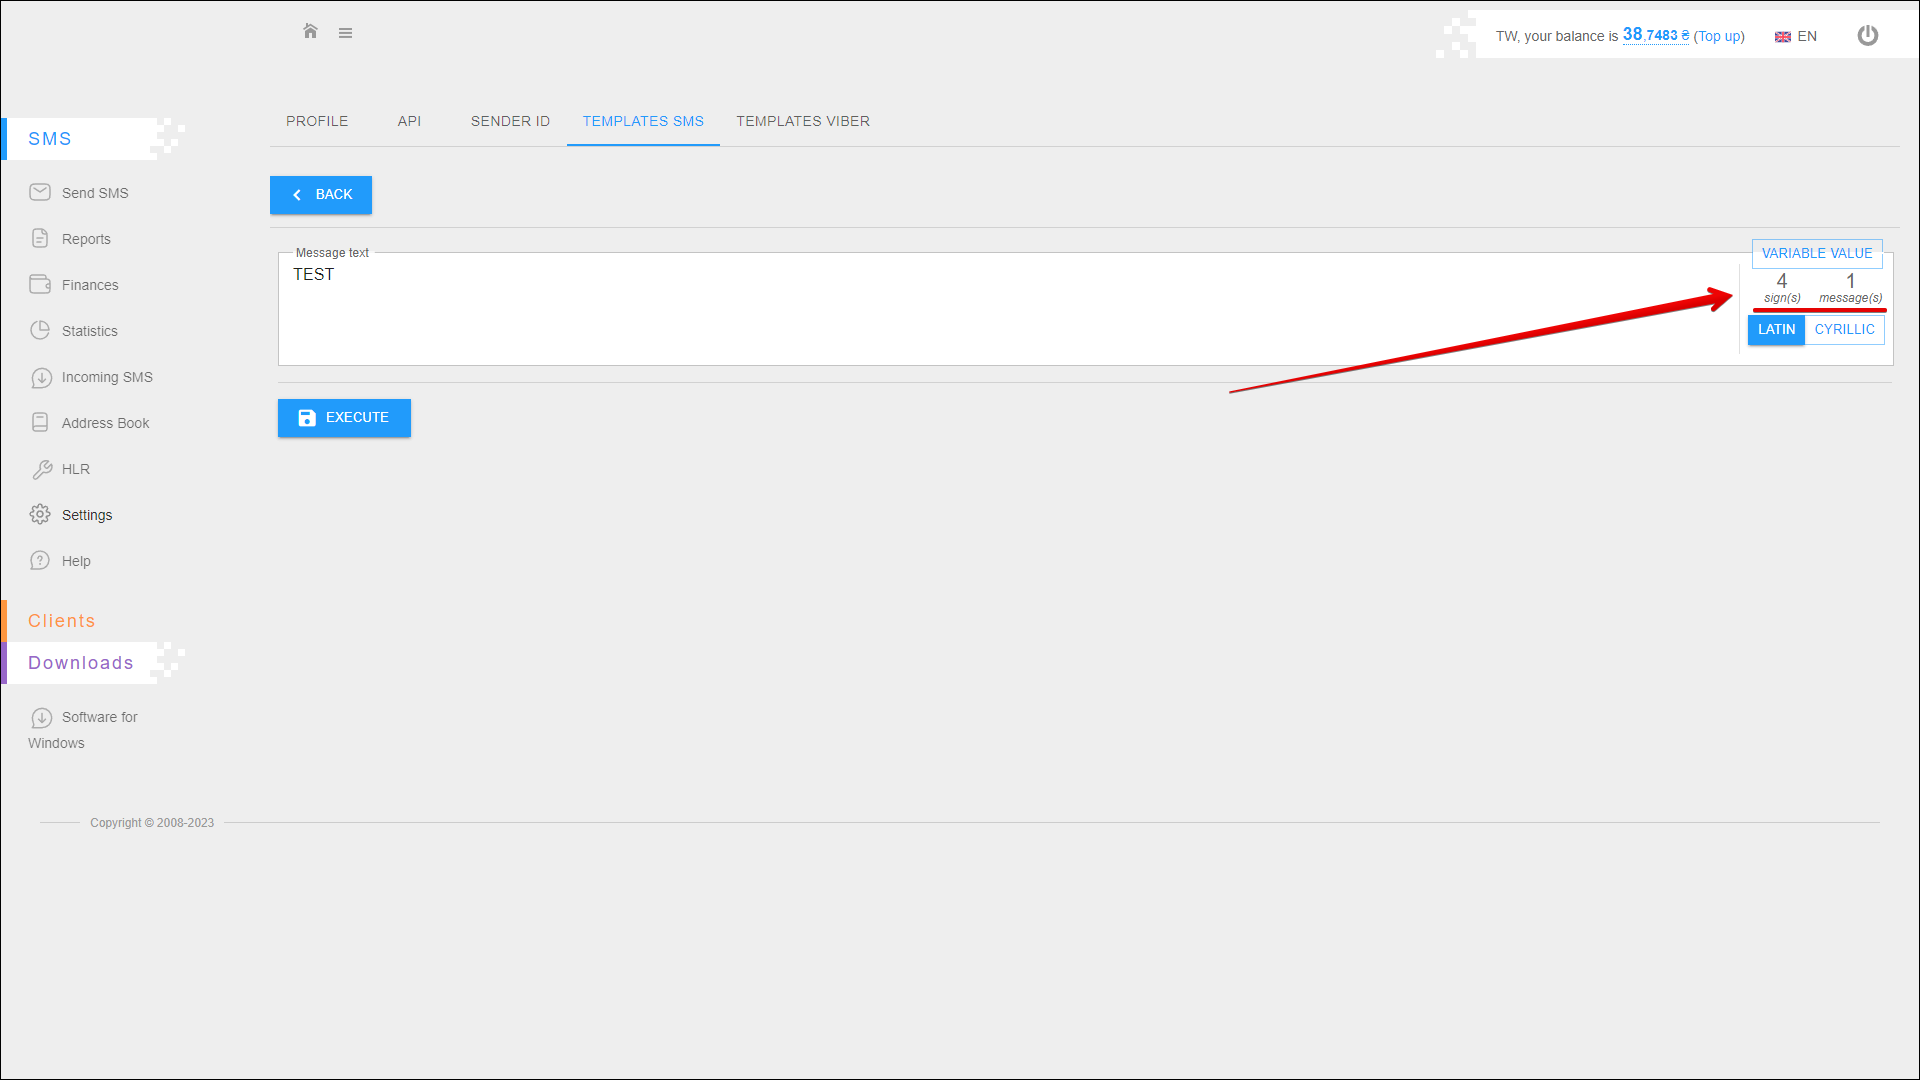
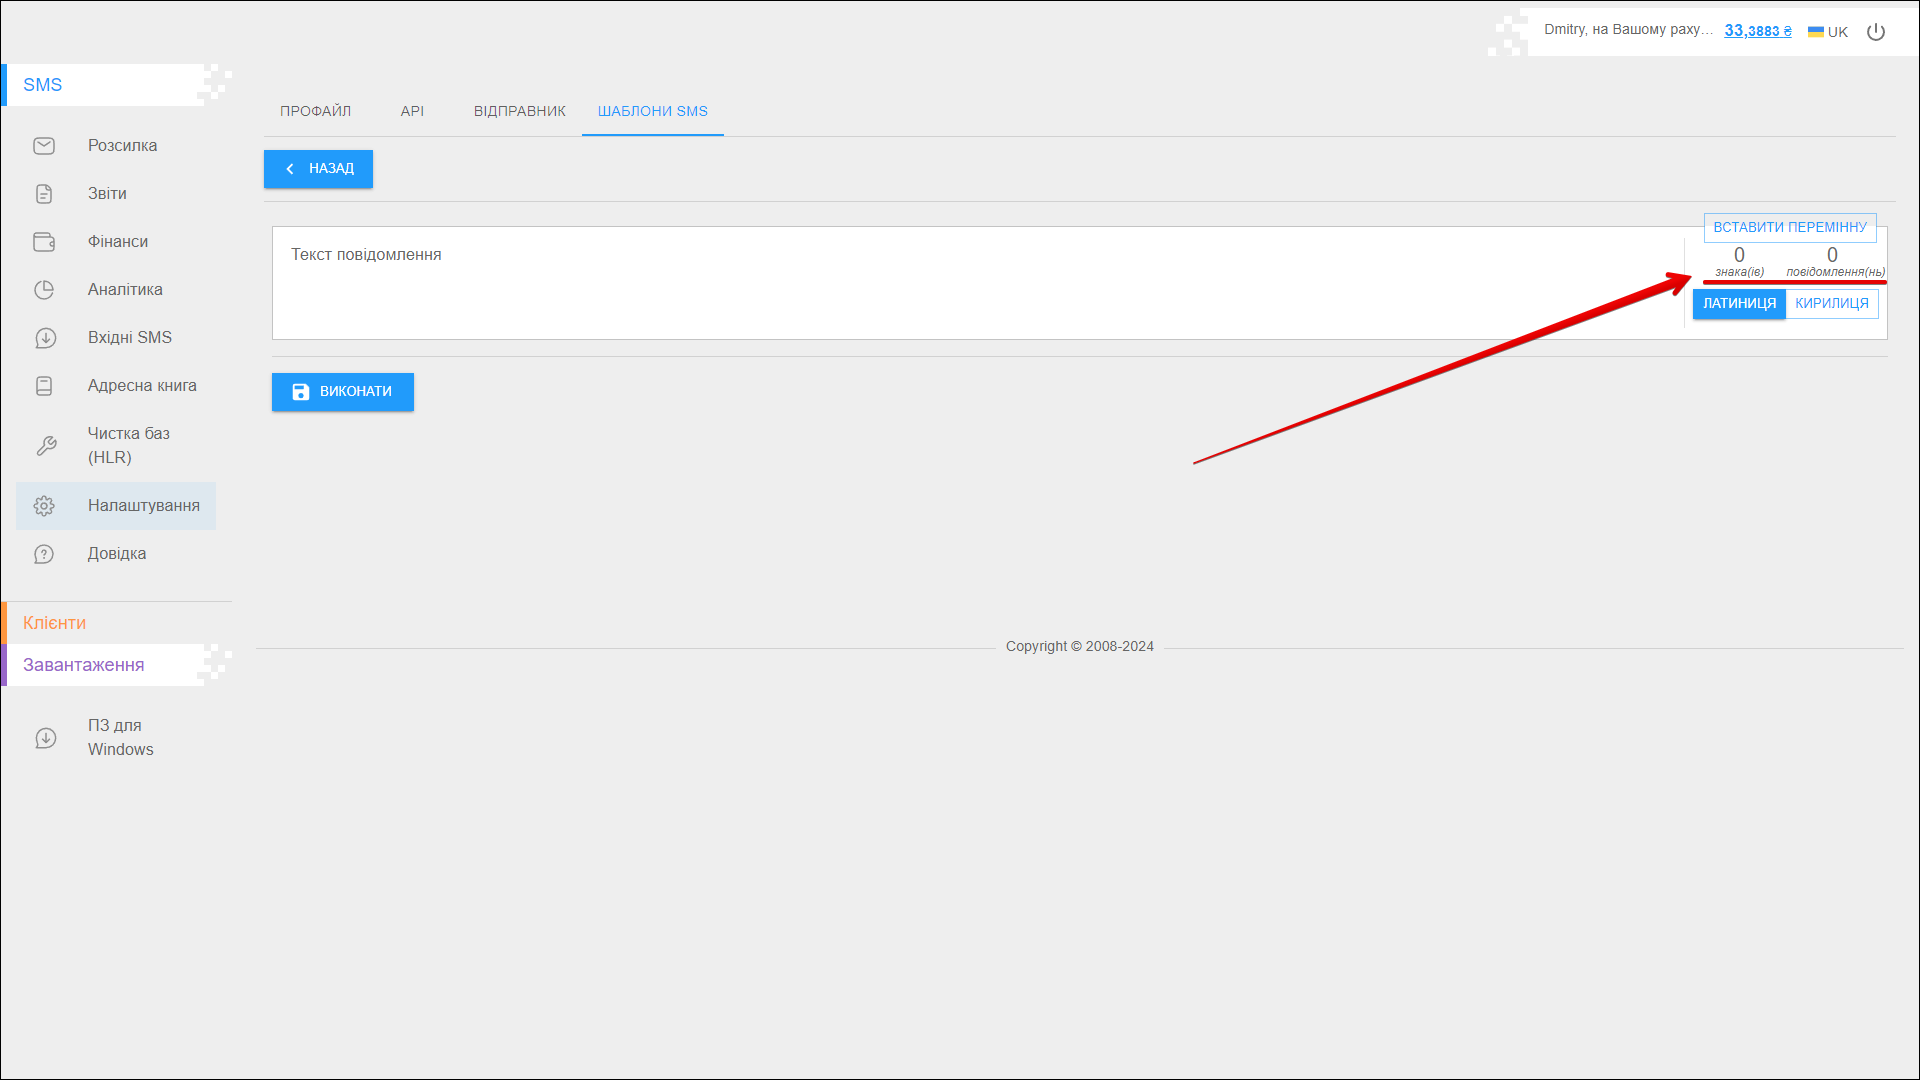
SMS-Налаштування-Шаблони SMS

diff --git a/i18n/uk/docusaurus-plugin-content-docs/current/instruction/sms/settings/templates_sms.md b/i18n/uk/docusaurus-plugin-content-docs/current/instruction/sms/settings/templates_sms.md
@@ -3,3 +3,53 @@ id: templates_sms
 title: Шаблони SMS
 slug: /templates_sms
 ---
+
+Ця вкладка призначена для додавання нових шаблонів SMS, а також для редагування і видалення існуючих шаблонів.
+
+Щоб відкрити дану вкладку, виберіть **SMS** → **Налаштування** у боковому меню та перейдіть на вкладку **ШАБЛОНИ СМС** tab.
+
+![image1](/img/uk/sms_settings_templates_sms/image1.png)
+
+## Додавання нового шаблону
+
+Щоб додати новий шаблон, натисніть кнопку **+ ДОДАТИ** у верхньому лівому кутку сторінки.
+
+![image2](/img/uk/sms_settings_templates_sms/image2.png)
+
+Введіть **Текст повідомлення** (обмеження на кількість знаків у повідомленні: **70** для кирилиці та **160** для латиниці) та натисніть **ВИКОНАТИ** для створення шаблона.
+
+Новий шаблон буде відображено в [списку шаблонів](#список-шаблонів).
+
+![image3](/img/uk/sms_settings_templates_sms/image3.png)
+
+### Додаткові параметри
+
+Використовуйте кнопку **ВСТАВИТИ ПЕРЕМІННУ**, щоб додати змінну до тексту повідомлення. Ця функція дозволяє вставити ім'я або будь-які інші дані для кожного одержувача в масовій розсилці.
+
+![image4](/img/uk/sms_settings_templates_sms/image4.png)
+
+Праворуч від поля введення тексту повідомлення відображається **Кількість введених знаків** і **Кількість повідомлень**, необхідних для відправлення введеного тексту.
+
+![image5](/img/uk/sms_settings_templates_sms/image5.png)
+
+Ви також можете переключити текст повідомлення з кирилиці на латиницю і навпаки за допомогою перемикача **ЛАТИНИЦЯ/КИРИЛИЦЯ**.
+
+![image6](/img/uk/sms_settings_templates_sms/image6.png)
+
+## Пошук шаблонів
+
+Щоб знайти потрібний шаблон, введіть його назву в **Поле пошуку** і натисніть іконку кнопки **Пошук** або клавішу **[ ENTER ]**.
+
+![image7](/img/uk/sms_settings_templates_sms/image7.png)
+
+## Список шаблонів
+
+Усі додані шаблони відображаються у списку **Свої шаблони**.
+
+![image8](/img/uk/sms_settings_templates_sms/image8.png)
+
+## Видалення шаблону
+
+Щоб видалити шаблон, відзначте чекбокс навпроти потрібного шаблону і натисніть іконку кнопки **Видалити** у верхньому правому куті таблиці.
+
+![image9](/img/uk/sms_settings_templates_sms/image9.png)
